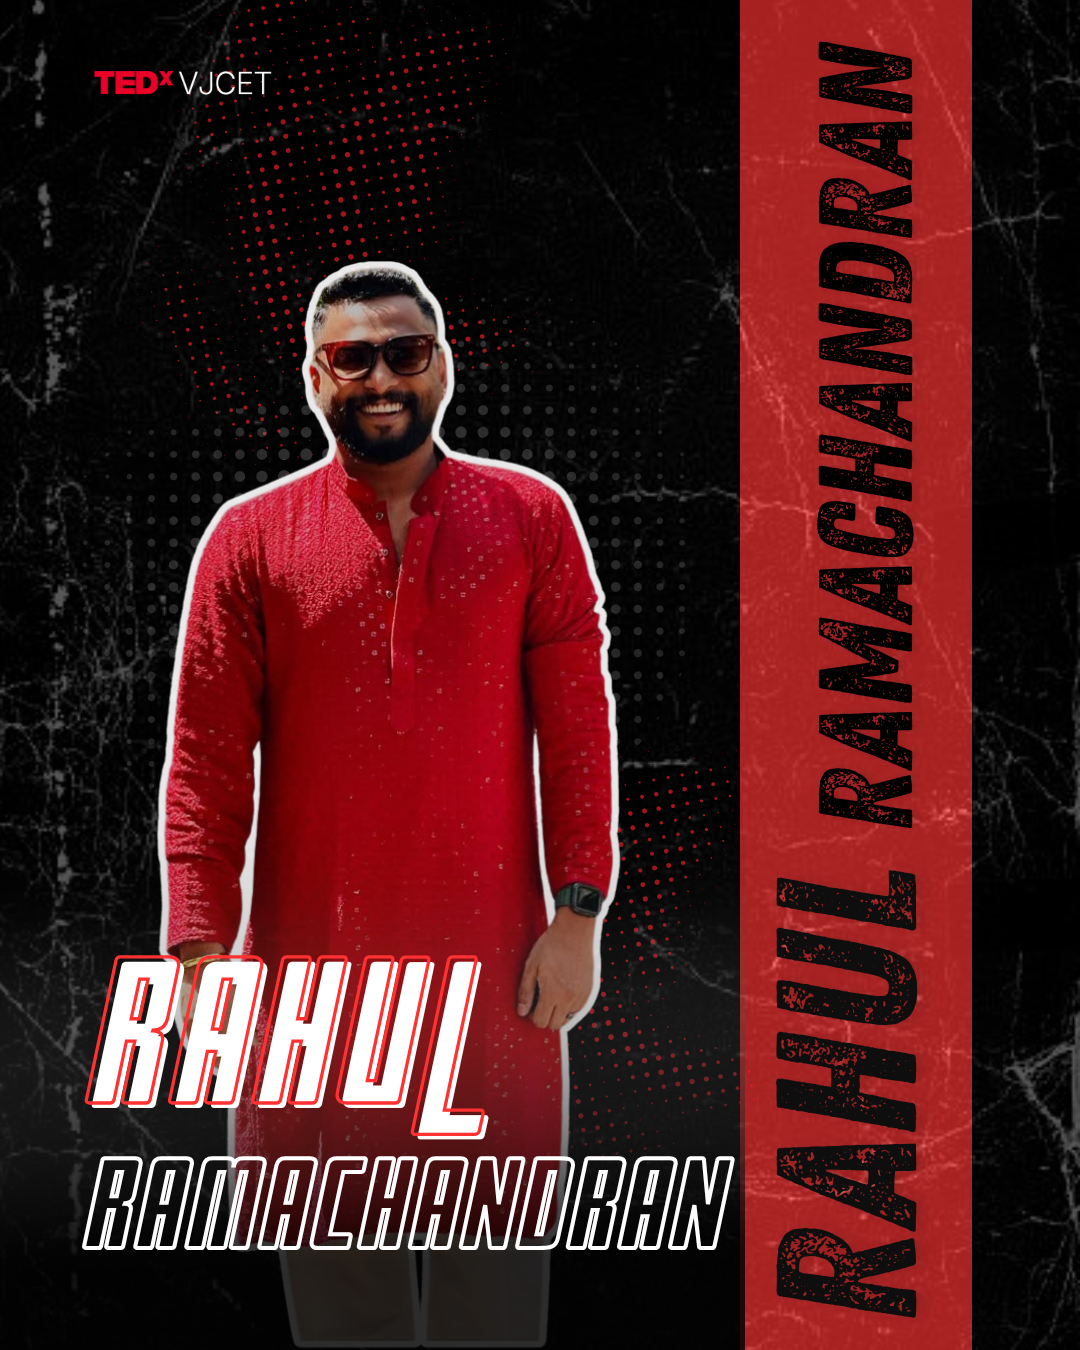
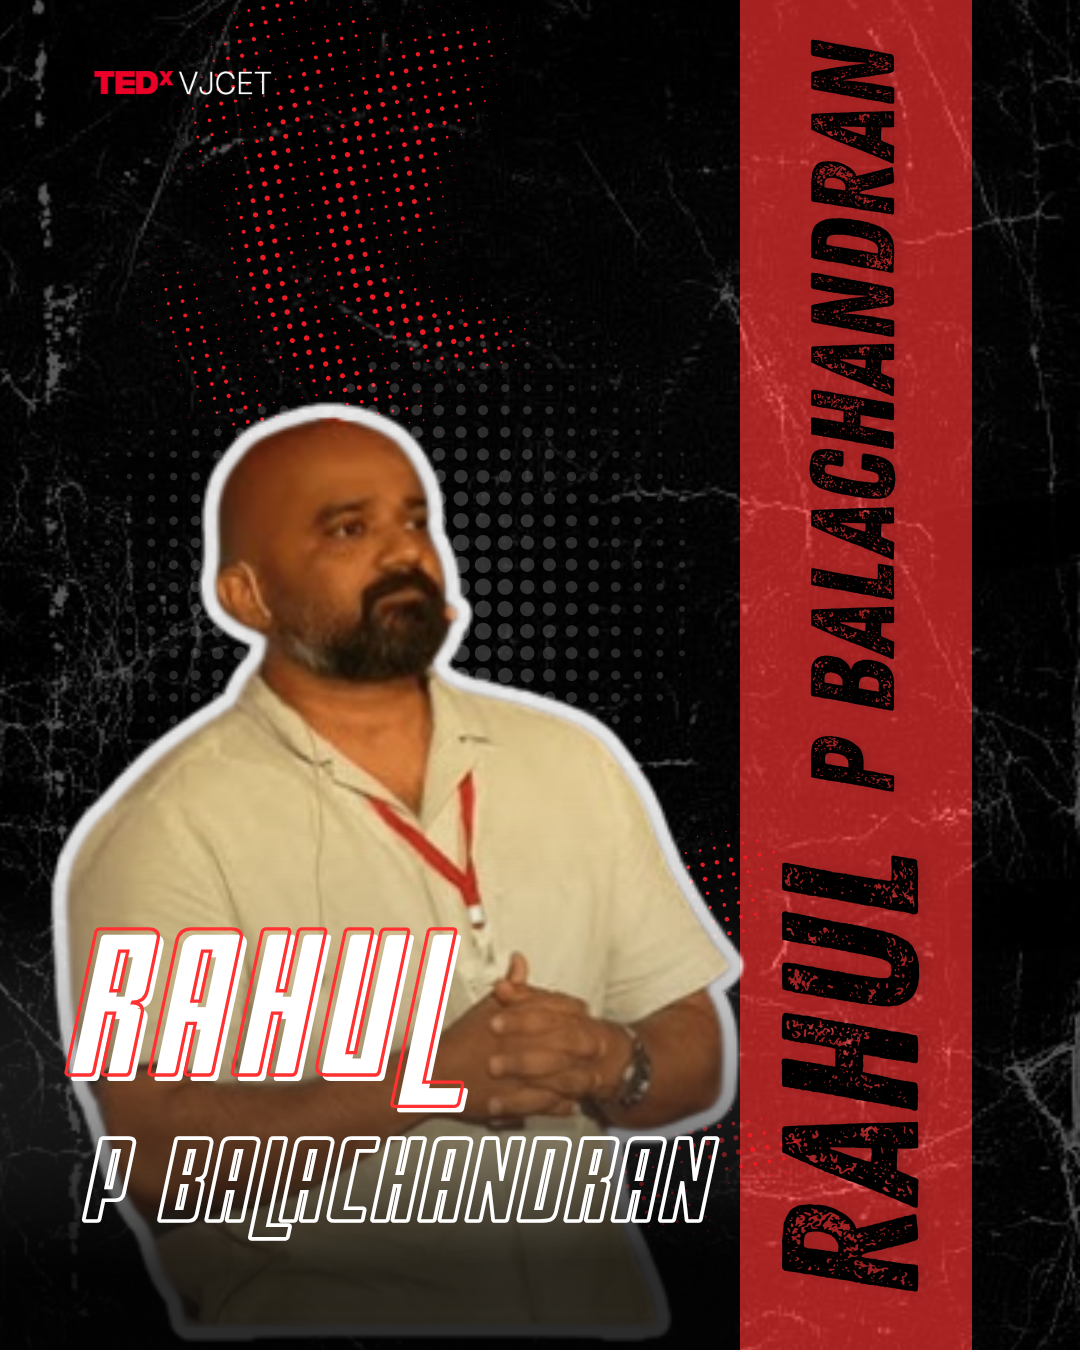
fix speaker image orders

diff --git a/app/components/sections/SpeakersSection.tsx b/app/components/sections/SpeakersSection.tsx
@@ -4,43 +4,21 @@ import React, { useState } from 'react';
 import Image from 'next/image';
 import { ParallaxBackground } from '@/app/components/ui/ParallaxBackground';
 import { FocusedSpeakersGrid } from '@/app/components/ui/FocusedSpeakersGrid';
-import { Speaker } from '@/app/types';
-import speakersData from '@/app/data/speakers.json';
+import { speakers } from '@/app/constants';
+
+// {
+//   id: i + 1,
+//   name: `SPEAKER ${i + 1}`,
+//   role: "TO BE REVEALED",
+//   revealed: false,
+//   description: "This speaker will be revealed soon. Stay tuned for more exciting announcements!"
+// }
 
 export const SpeakersSection = () => {
   const [currentIndex, setCurrentIndex] = useState(0);
   const totalSpeakers = 8;
 
-  // Generate complete speakers array with placeholders
-  const generateSpeakersWithPlaceholders = (): Speaker[] => {
-    const revealedSpeakers = speakersData as Speaker[];
-    const speakers: Speaker[] = [];
-
-    // Add revealed speakers
-    for (let i = 0; i < totalSpeakers; i++) {
-      const revealedSpeaker = revealedSpeakers.find(speaker => speaker.id === i + 1);
-
-      if (revealedSpeaker) {
-        speakers.push(revealedSpeaker);
-      } else {
-        // Add placeholder for unrevealed speaker
-        speakers.push({
-          id: i + 1,
-          name: `SPEAKER ${i + 1}`,
-          role: "TO BE REVEALED",
-          revealed: false,
-          description: "This speaker will be revealed soon. Stay tuned for more exciting announcements!"
-        });
-      }
-    }
-
-    return speakers;
-  };
-
-  const speakers = generateSpeakersWithPlaceholders();
-  const revealedSpeakersCount = speakersData.length;
-
-
+  const revealedSpeakersCount = speakers.filter(speaker => speaker.revealed).length;
 
   const nextSpeaker = () => {
     setCurrentIndex((prev) => (prev + 1) % speakers.length);

diff --git a/app/constants/index.ts b/app/constants/index.ts
@@ -1,3 +1,6 @@
+import { Speaker } from "../types";
+import speakersData from '@/app/data/speakers.json';
+
 // Event Configuration
 export const EVENT_DATE = new Date('2026-01-03T00:00:00.000Z');
 
@@ -38,3 +41,5 @@ export const CONTACT_INFO = {
   },
   mapUrl: 'https://maps.app.goo.gl/S52rk41bxgKPRPP5A'
 } as const;
+
+export const speakers = speakersData as Speaker[];
